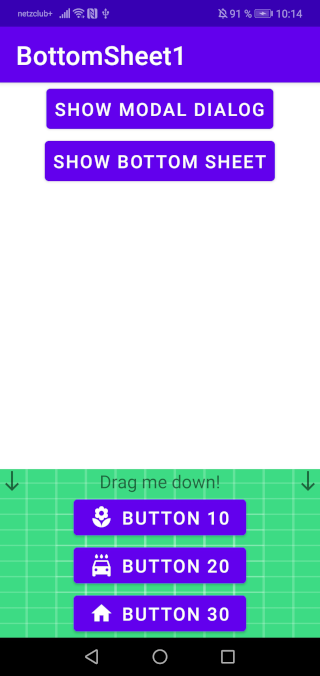
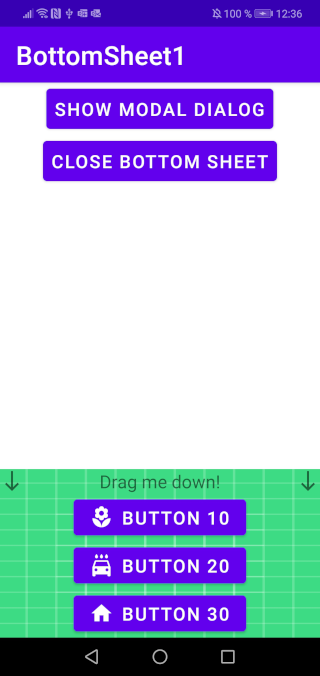
Display 'close bottom sheet' when it is expanded

diff --git a/BottomSheet1/app/src/main/java/de/afarber/bottomsheet1/MainActivity.java b/BottomSheet1/app/src/main/java/de/afarber/bottomsheet1/MainActivity.java
@@ -53,15 +53,24 @@ public class MainActivity extends AppCompatActivity {
         sheet.findViewById(R.id.button20).setOnClickListener(this::closeSheet);
         sheet.findViewById(R.id.button30).setOnClickListener(this::closeSheet);
         BottomSheetBehavior<LinearLayout> behavior = BottomSheetBehavior.from(sheet);
-        Log.d(TAG, "before onStateChanged: " + STATES.get(behavior.getState()));
+        Button showSheet = findViewById(R.id.showSheetButton);
+        showSheet.setOnClickListener(view -> {
+            if (behavior.getState() == STATE_EXPANDED) {
+                behavior.setState(STATE_COLLAPSED);
+            } else {
+                behavior.setState(STATE_EXPANDED);
+            }
+        });
         behavior.addBottomSheetCallback(new BottomSheetBehavior.BottomSheetCallback() {
             @Override
             public void onStateChanged(@NonNull View view, int newState) {
                 Log.d(TAG, "onStateChanged: " + STATES.get(newState));
                 if (newState == STATE_EXPANDED) {
+                    showSheet.setText(R.string.close_bottom_sheet);
                     dragLabel.setText(R.string.drag_me_down);
                     dragLabel.setCompoundDrawablesWithIntrinsicBounds(R.drawable.ic_baseline_south_24, 0, R.drawable.ic_baseline_south_24, 0);
                 } else if (newState == STATE_COLLAPSED) {
+                    showSheet.setText(R.string.show_bottom_sheet);
                     dragLabel.setText(R.string.drag_me_up);
                     dragLabel.setCompoundDrawablesWithIntrinsicBounds(R.drawable.ic_baseline_north_24, 0, R.drawable.ic_baseline_north_24, 0);
                 }
@@ -70,15 +79,6 @@ public class MainActivity extends AppCompatActivity {
             @Override
             public void onSlide(@NonNull View view, float v) {
                 Log.d(TAG, "onSlide: " + v);
-            }
-        });
-
-        Button showSheet = findViewById(R.id.showSheetButton);
-        showSheet.setOnClickListener(view -> {
-            if (behavior.getState() == STATE_EXPANDED) {
-                behavior.setState(STATE_COLLAPSED);
-            } else {
-                behavior.setState(STATE_EXPANDED);
             }
         });
     }
